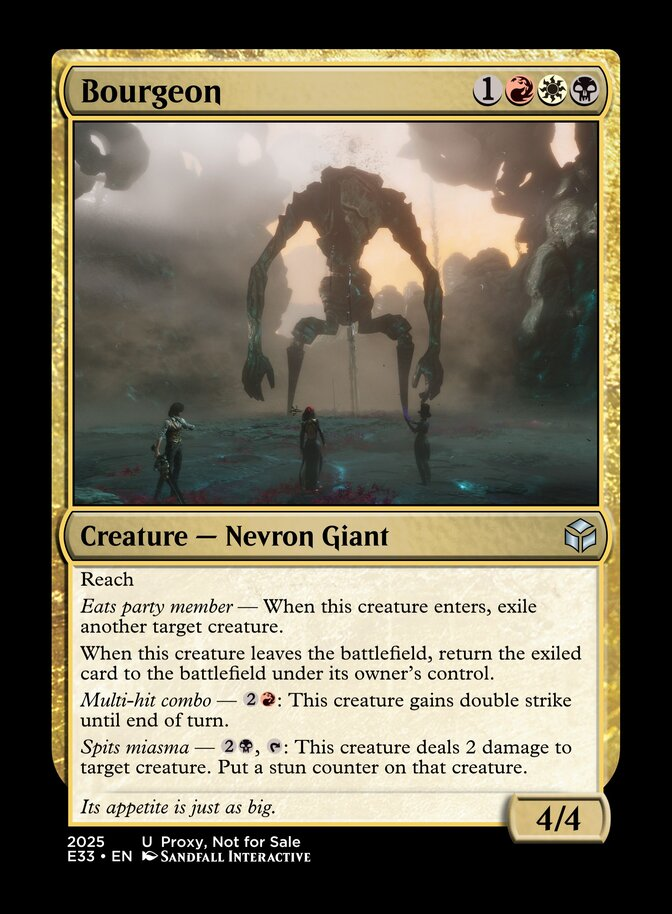
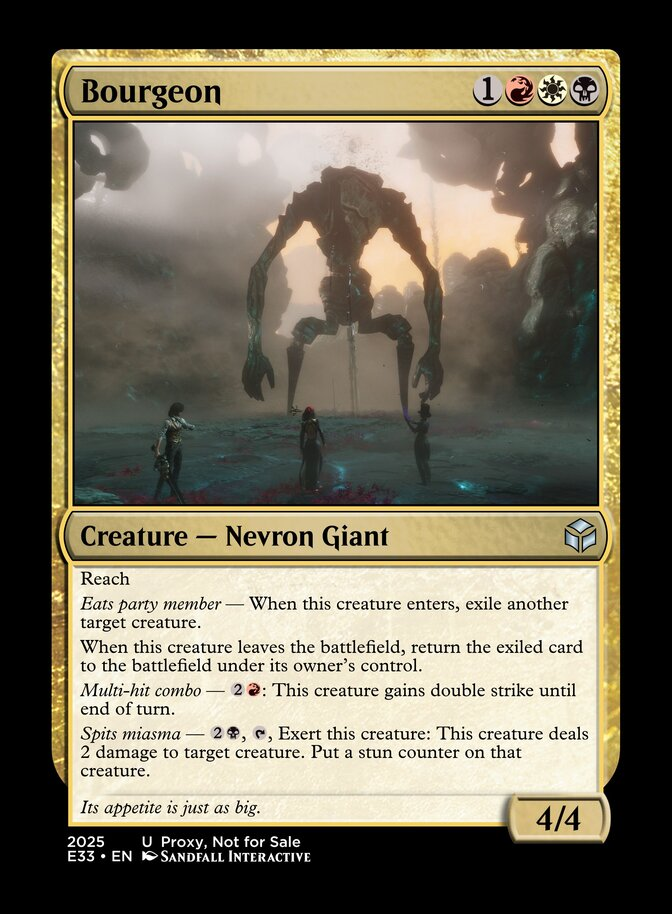
Bourgeon: Add exertion requirement to "Spits Miasma" ability.
Fixes #146

Changed region(s): [[0.0938, 0.6127, 0.875, 0.919], [0.7812, 0.8578, 0.8125, 0.8884]]

diff --git a/design/MULTICOLOR.md b/design/MULTICOLOR.md
@@ -1,6 +1,6 @@
 # Cards
 
-> Last generated: 1/7/2026 10:51:18 am
+> Last generated: 6/7/2026 12:15:31 pm
 
 ## Aberration
 
@@ -167,7 +167,7 @@ Reach
 Eats party member — When this creature enters, exile another target creature.
 When this creature leaves the battlefield, return the exiled card to the battlefield under its owner's control.
 Multi-hit combo — {2}{R}: This creature gains double strike until end of turn.
-Spits miasma — {2}{B}, {T}: This creature deals 2 damage to target creature. Put a stun counter on that creature.
+Spits miasma — {2}{B}, {T}, Exert this creature: This creature deals 2 damage to target creature. Put a stun counter on that creature.
 ---
 Its appetite is just as big.
 
@@ -185,6 +185,7 @@ Its appetite is just as big.
    - Spits miasma: A shock and stun on target creature.
  - 21/01/2026: Added Giant sub-type.
  - 25/02/2026: Added reach
+ - 6/7/2026: Added exertion to "Spits Miasma" ability to curb power level (repeatable creature shock + stun is a tad too powerful)
 
 ## Braseleur
 
